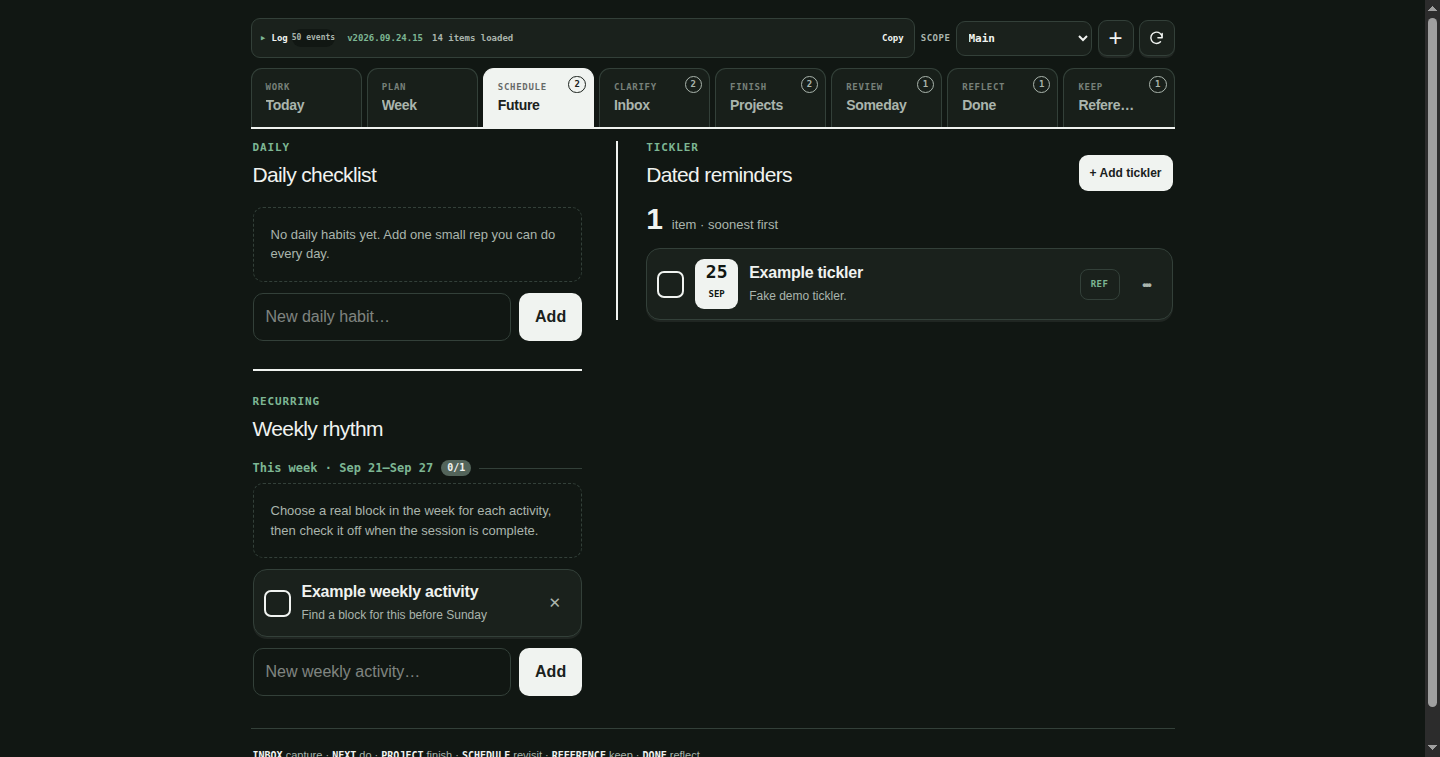
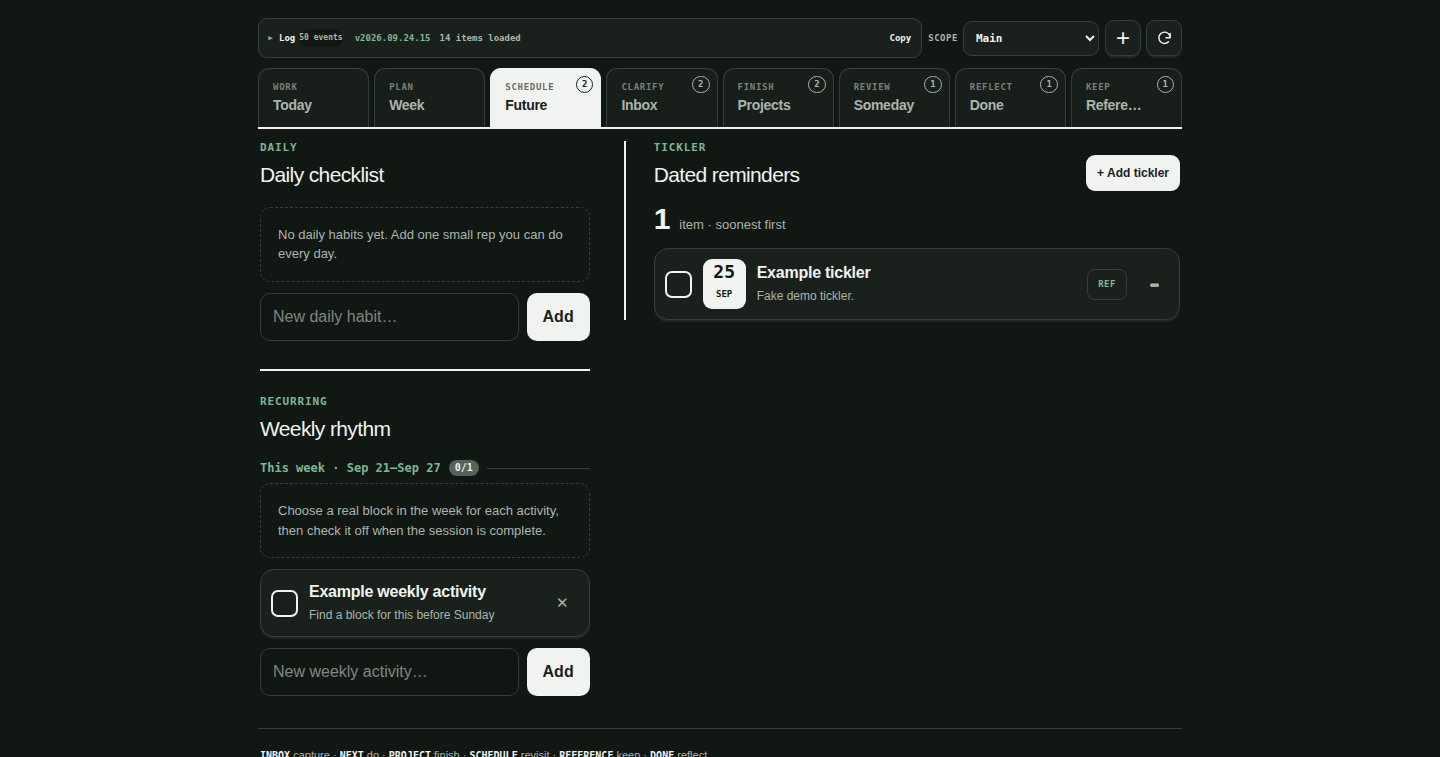
Revert SDK vendoring: @hatch/space-sdk resolves on the Muse runtime
- Drop vendor/space-sdk-shim (clean-room compat layer no longer needed);
  the app's primary target is the Muse runtime (web artifact), where
  file:/opt/hatch/skills/spaces/ts-runtime/dist/space-sdk.tgz exists on
  every machine.
- package.json: restore the original SDK dependency path and drop the
  explicitly-added bun-plugin-tailwind devDependency (comes transitively
  with the real SDK).
- README: replace the shim explainer with a note that the SDK resolves
  on the Muse platform.
- Re-capture docs/screenshots with the real SDK build (genuine dark mode,
  all demo data).

diff --git a/README.md b/README.md
@@ -33,17 +33,13 @@ use the `db:migrate` / `build:standalone` / `serve:standalone` scripts above.)
 
 Your data lives in `app.db` (SQLite, created at runtime, git-ignored). The schema is in `schema.sql`, with Drizzle migrations under `drizzle/`. Your real `local-config.ts` is git-ignored too — only the `.example.ts` template is committed, so cloning this repo never leaks anyone's identifiers.
 
-## About `vendor/space-sdk-shim`
+## About `@hatch/space-sdk`
 
-The app's action contracts (`defineAction`, the client RPC proxy, zod) were
-originally written against the Muse web-artifact runtime's `@hatch/space-sdk`,
-which isn't redistributable — so this repo vendors a clean-room,
-MIT-licensed minimal implementation of just the surface this app uses
-(`vendor/space-sdk-shim`, wired up as a `file:` dependency in
-`package.json`). It covers `defineAction` / `definePrivilegedContracts` /
-`definePrivilegedHandlers` / `createActionClient` and re-exports `zod`.
-Inside the real Muse artifact pipeline the platform SDK is used instead;
-the standalone server here only needs the shim.
+The app's action contracts are written against the Muse web-artifact
+runtime's `@hatch/space-sdk`, resolved via
+`file:/opt/hatch/skills/spaces/ts-runtime/dist/space-sdk.tgz` — that path
+exists on every Muse runtime, so `bun install` just works there. (There is
+no need to vendor or replace it; other people's Muses run the same runtime.)
 
 ## For Muse agents
 
